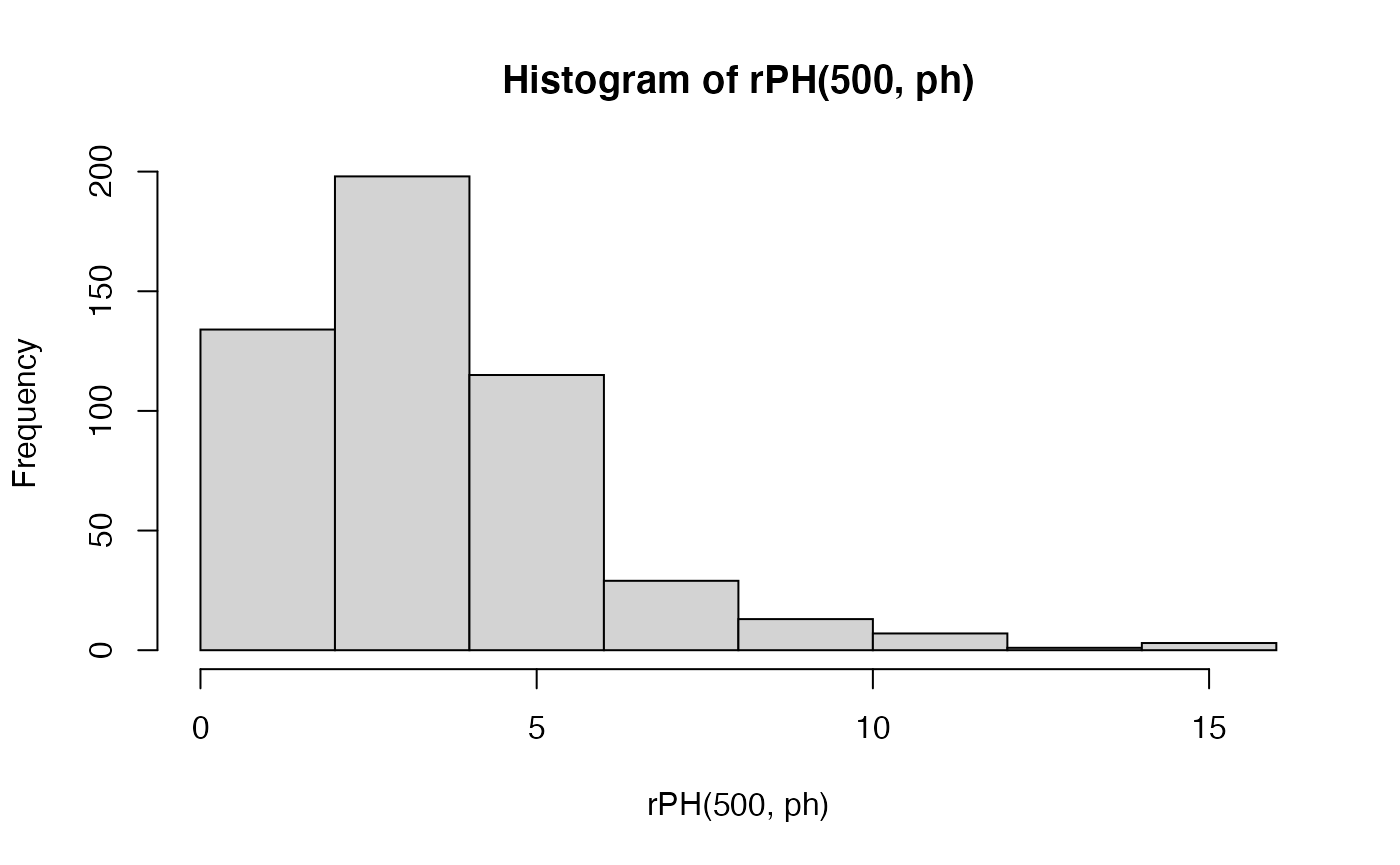
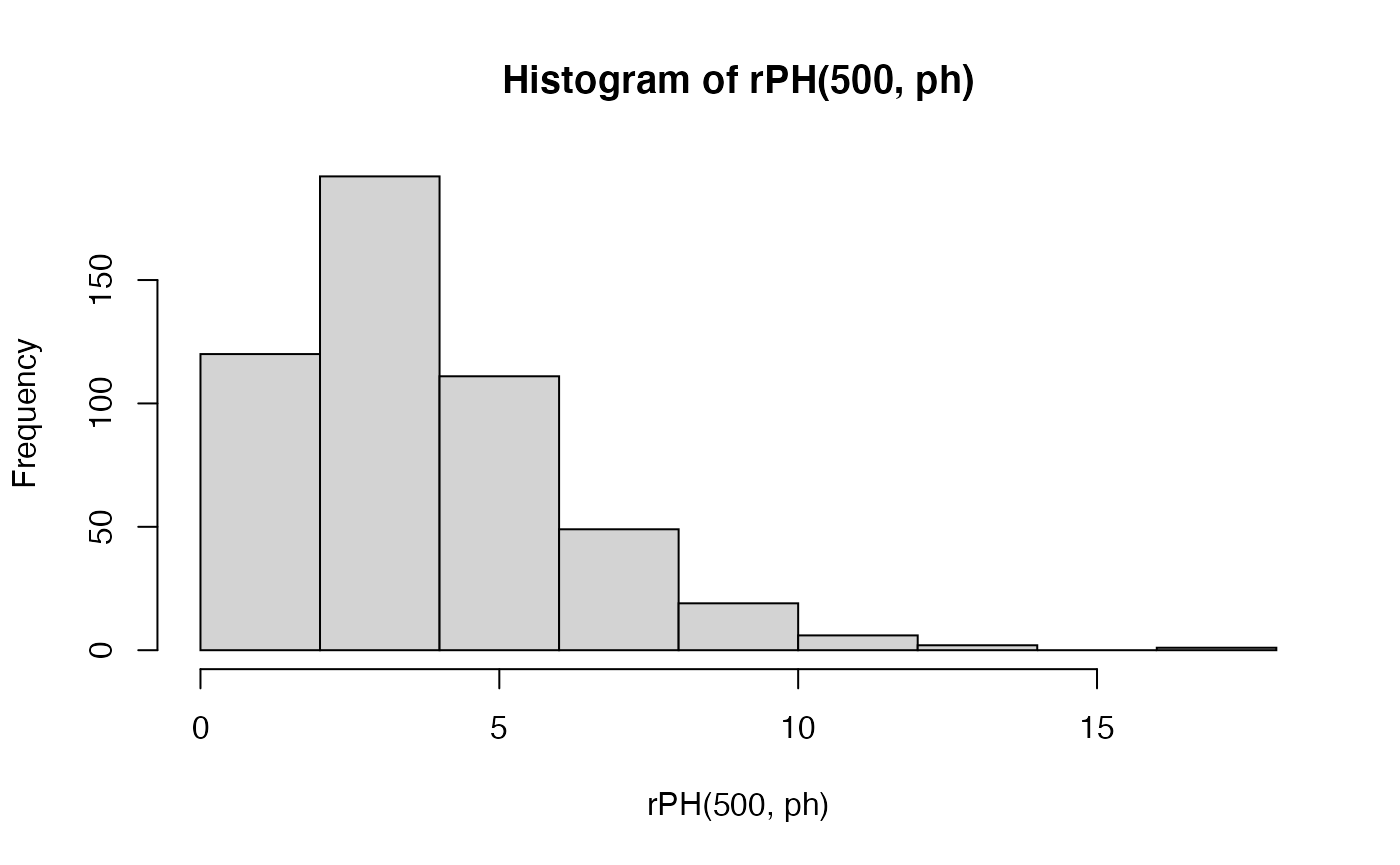
Built site for PhaseTypeR: 0.1.0@27d4f6b

diff --git a/reference/reward_phase_type.html b/reference/reward_phase_type.html
@@ -150,20 +150,14 @@ non-negative reward vector.</p>
     <tr>
       <th>reward</th>
       <td><p>a vector of the same length as the number of
-states. The vector should contains non negative values and only integer for
-discrete phase-type class.
-For <code>disc_phase_type</code> object, it could also be a matrix with as many
-rows as states and as many columns as the maximum values of reward plus one.
-Also in this case, each cell of the matrix should be probabilities and the
-sum of the rows should sum up to one.</p></td>
+states. The vector should contain non-negative values. Rewards for the
+discrete phase-type distribution can only be integers.</p></td>
     </tr>
     </table>
 
     <h2 class="hasAnchor" id="value"><a class="anchor" href="#value"></a>Value</h2>
 
-    <p>An object of class <code>disc_phase_type</code> or <code>cont_phase_type</code>.
-Be aware that if the input is a multivariate phase_type the output will be
-univariate.</p>
+    <p>An object of class <code>disc_phase_type</code> or <code>cont_phase_type</code>.</p>
     <h2 class="hasAnchor" id="details"><a class="anchor" href="#details"></a>Details</h2>
 
     <p>For the reward transformation for continuous phase-type distribution, the
@@ -171,15 +165,11 @@ transformation will be performed as presented in the book of Bladt and
 Nielsen (2017).</p>
 <p>For the discrete phase_type distribution is based on the PhD of Navarro (2018) and
 Hobolth, Bladt and Andersen (2021).</p>
-<p>Every state of the sub-intensity matrix should have a reward, and in the case of
-both the continuous and the discrete phase-type distributions,
-this reward should be a vector with non-negative
-values of size equal to the number of states.</p>
     <h2 class="hasAnchor" id="references"><a class="anchor" href="#references"></a>References</h2>
 
-    <p>Bladt, M., &amp; Nielsen, B. F. (2017). *Matrix-exponential distributions in applied probability* (Vol. 81). New York: Springer.
-Campillo Navarro, A. (2018). *Order statistics and multivariate discrete phase-type distributions*. DTU Compute. DTU Compute PHD-2018, Vol.. 492
-Hobolth, A., Bladt, M. &amp; Andersen, L.A. (2021). *Multivariate phase-type theory for the site frequency spectrum*. ArXiv.</p>
+    <p>Bladt, M., &amp; Nielsen, B. F. (2017). *Matrix-exponential distributions in applied probability* (Vol. 81). New York: Springer.</p>
+<p>Campillo Navarro, A. (2018). *Order statistics and multivariate discrete phase-type distributions*. DTU Compute. DTU Compute PHD-2018, Vol.. 492</p>
+<p>Hobolth, A., Bladt, M. &amp; Andersen, L.A. (2021). *Multivariate phase-type theory for the site frequency spectrum*. ArXiv.</p>
     <h2 class="hasAnchor" id="see-also"><a class="anchor" href="#see-also"></a>See also</h2>
 
     <div class='dont-index'><p><code><a href='generator_functions.html'>PH</a></code>, <code><a href='generator_functions.html'>DPH</a></code></p></div>

diff --git a/articles/PhaseTypeR.html b/articles/PhaseTypeR.html
@@ -316,8 +316,8 @@ F(u) = 1-\boldsymbol{\pi}e^{\boldsymbol{T}u}\boldsymbol{e}, \quad u\ge0.
 <div class="sourceCode" id="cb12"><pre class="downlit sourceCode r">
 <code class="sourceCode R"><span class="fu"><a href="https://rdrr.io/r/base/cat.html">cat</a></span><span class="op">(</span><span class="st">'10 random samples: \n'</span>, <span class="fu"><a href="../reference/PH_functions.html">rPH</a></span><span class="op">(</span><span class="fl">5</span>, <span class="va">ph</span><span class="op">)</span>, <span class="st">'\n'</span>, <span class="fu"><a href="../reference/PH_functions.html">rPH</a></span><span class="op">(</span><span class="fl">5</span>, <span class="va">ph</span><span class="op">)</span><span class="op">)</span>
 <span class="co">#&gt; 10 random samples: </span>
-<span class="co">#&gt;  3.769704 9.710726 0.768727 1.904248 7.397962 </span>
-<span class="co">#&gt;  1.355338 2.038263 5.08604 7.876613 5.489624</span></code></pre></div>
+<span class="co">#&gt;  3.590151 5.322416 1.867897 7.06998 2.376299 </span>
+<span class="co">#&gt;  3.740046 5.582861 4.209464 1.939828 14.54352</span></code></pre></div>
 <p>Here is a histogram of 200 samples from the phase-type distribution:</p>
 <div class="sourceCode" id="cb13"><pre class="downlit sourceCode r">
 <code class="sourceCode R"><span class="fu"><a href="https://rdrr.io/r/graphics/hist.html">hist</a></span><span class="op">(</span><span class="fu"><a href="../reference/PH_functions.html">rPH</a></span><span class="op">(</span><span class="fl">500</span>, <span class="va">ph</span><span class="op">)</span>, breaks <span class="op">=</span> <span class="fl">10</span><span class="op">)</span></code></pre></div>
